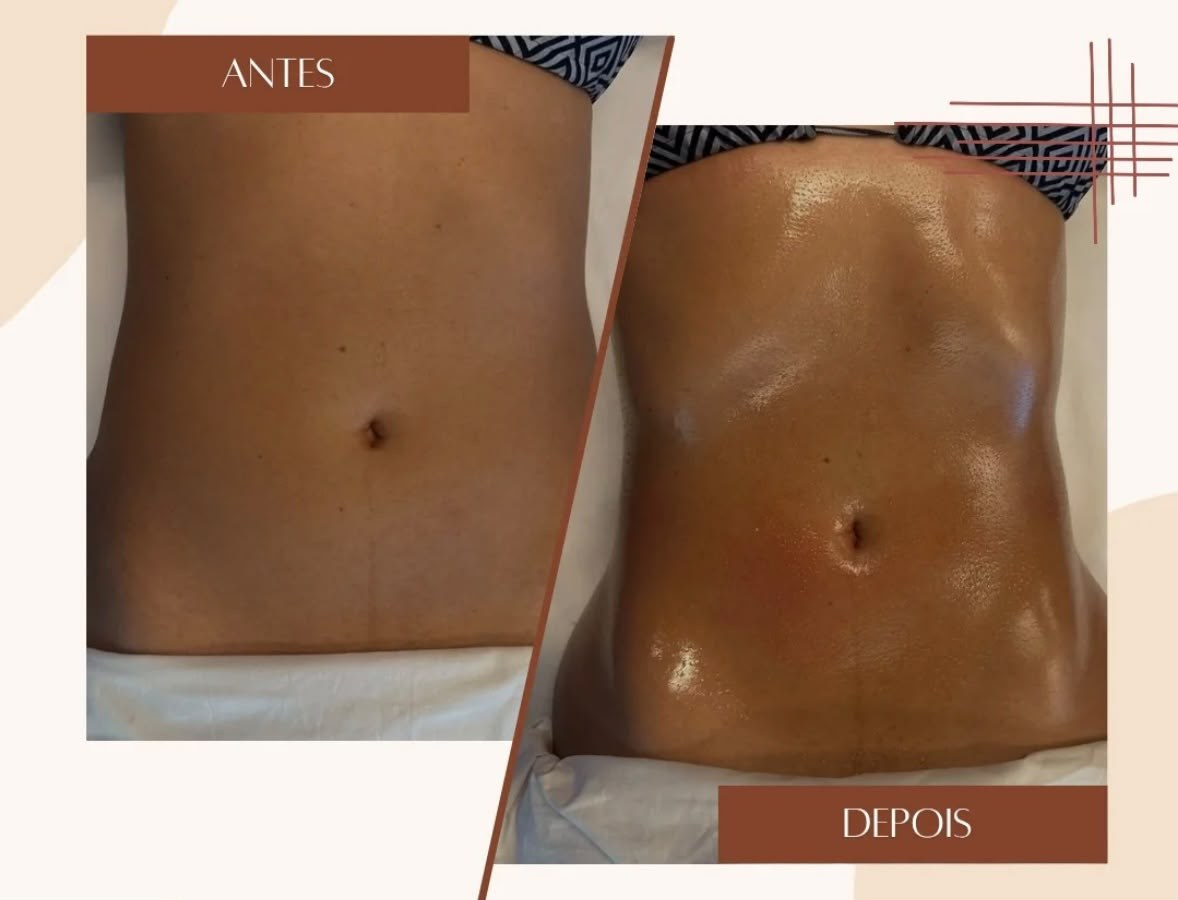
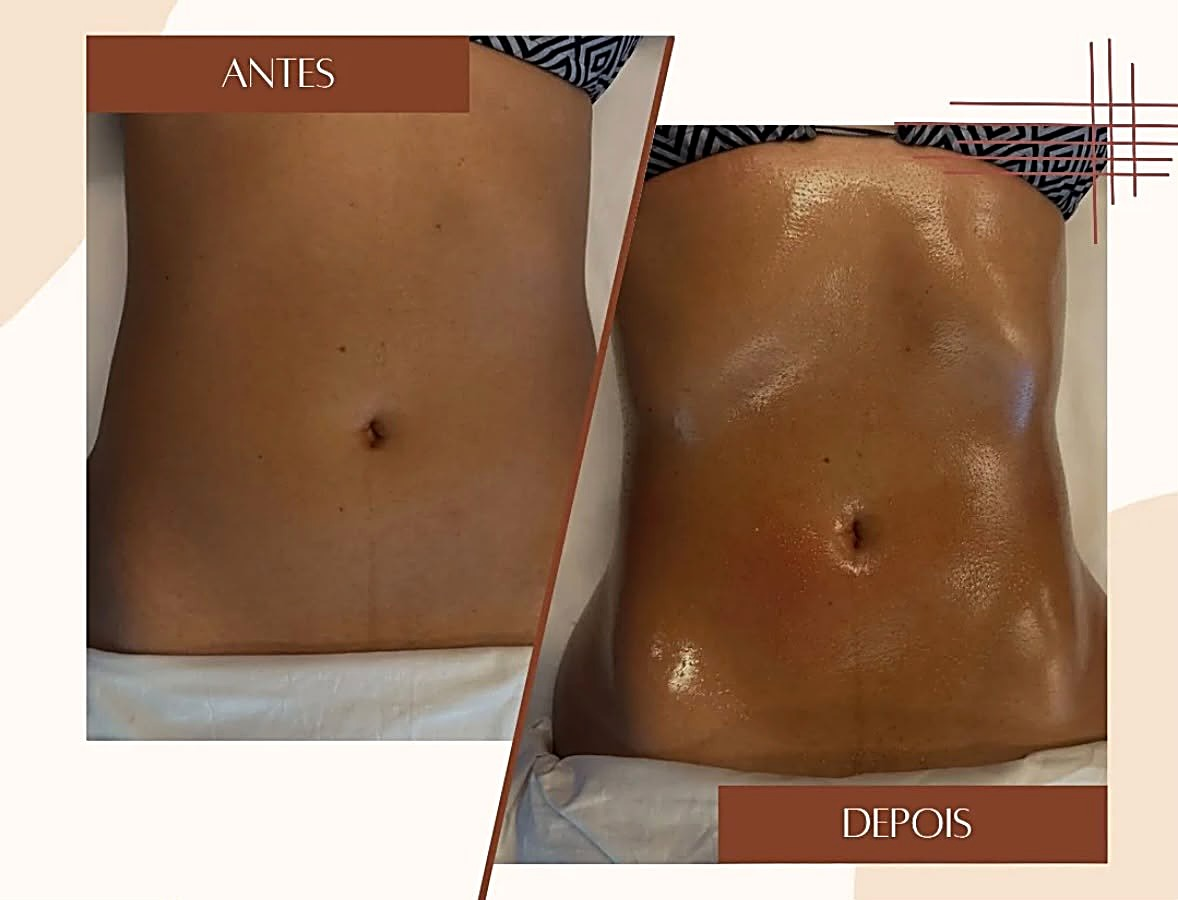
feat: fotos das profissionais nos cards e refinamentos de qualidade
- Cards de Bem-estar, Estética avançada e Nutrição com as fotos da
  Pamela, Dra. Franciele e Dra. Juliana (crédito às profissionais)
- Nitidez reforçada nas 10 fotos de antes/depois
- Imagem do refúgio com realce de cor e nitidez
- CTA final menor e mais refinado (btn-sm)

diff --git a/frontend/src/components/Experiencias.jsx b/frontend/src/components/Experiencias.jsx
@@ -5,9 +5,9 @@ import { waLink } from "../config/site";
 import imgMiracleTouch from "../assets/images/menu/serv-miracle-touch-v3.jpg";
 import imgDrenagem from "../assets/images/menu/serv-drenagem-rf-v3.jpg";
 import imgMiracleFace from "../assets/images/menu/serv-miracle-face-v3.jpg";
-import imgRelaxante from "../assets/images/menu/serv-relaxante.jpg";
-import imgEstetica from "../assets/images/menu/serv-estetica.jpg";
-import imgNutri from "../assets/images/menu/serv-nutri.jpg";
+import imgRelaxante from "../assets/images/menu/serv-pamela.jpg";
+import imgEstetica from "../assets/images/menu/serv-franciele.jpg";
+import imgNutri from "../assets/images/menu/serv-juliana.jpg";
 
 const SERVICOS = [
   {

diff --git a/frontend/src/components/Agendar.jsx b/frontend/src/components/Agendar.jsx
@@ -22,7 +22,7 @@ function Agendar() {
               href={waLink(MSG_AGENDAR)}
               target="_blank"
               rel="noopener noreferrer"
-              className="btn btn-gold"
+              className="btn btn-gold btn-sm"
             >
               <svg viewBox="0 0 32 32" className="wa-icon" aria-hidden="true">
                 <path

diff --git a/frontend/src/App.css b/frontend/src/App.css
@@ -219,6 +219,16 @@ a {
   flex: none;
 }
 
+.btn-sm {
+  font-size: 12px;
+  padding: 12px 28px;
+}
+
+.btn-sm .wa-icon {
+  width: 17px;
+  height: 17px;
+}
+
 /* ---------- Header ---------- */
 
 .header {
